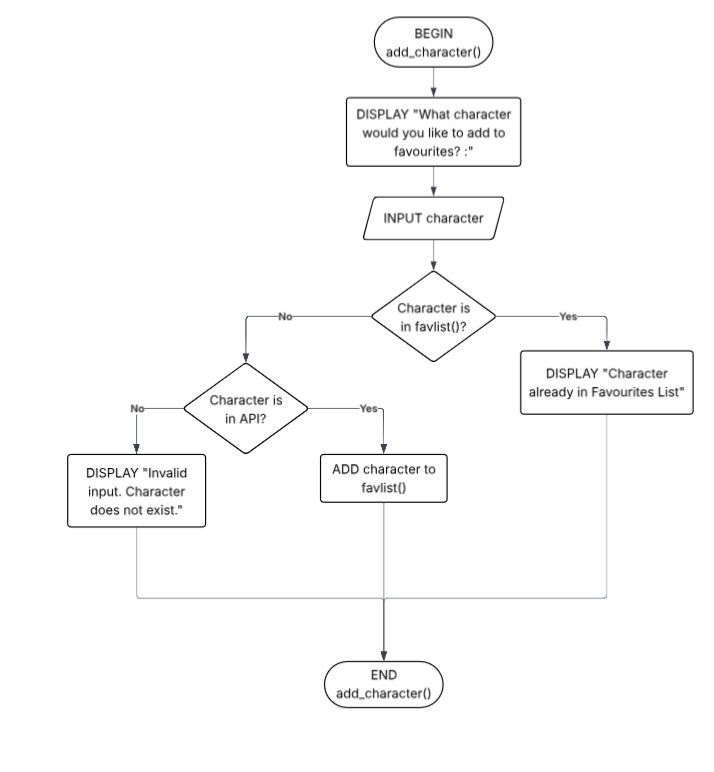
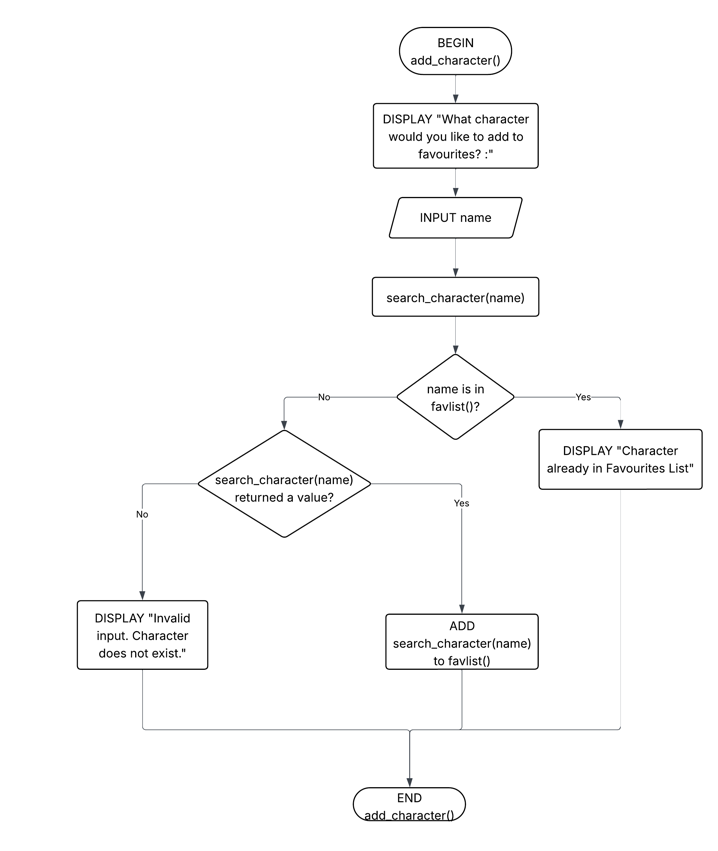
test: testing term_image to display images  + refactor: updated flowcharts
trying to find ways to display images in python terminal and i found term_image.it produces a pixelated version of the images but it bugs out when the images have a '?', which all the URLs have so I need to find a way for my code to remove it before trying to display image. i also updated all my flowcharts based on my present code and data dictionary

Changed region(s): [[0.493, 0.0, 0.986, 0.5907], [0.0924, 0.4041, 0.6471, 0.8083], [0.4622, 0.6839, 0.7703, 0.9637]]

diff --git a/functions.py b/functions.py
@@ -240,4 +240,10 @@ def record_actions(action, details=""):
     log_df.loc[len(log_df)] = new_row
 
 #<------------------------------TEST YOUR FUNCTIONS BELOW----------------------------->
+from term_image.image import from_url
 
+# Create an image instance from a file path
+image = from_url("https://vignette.wikia.nocookie.net/mlp/images/b/bc/Princess_Twilight_Sparkle_ID_S4E26.png")
+
+# Display the image in the terminal
+image.draw()

diff --git a/Documentation.md b/Documentation.md
@@ -201,8 +201,8 @@ REDO AGAIN RIP
 #### main()
 ```
 BEGIN main()
-    log = {}
-    favlist = {}
+    CREATE log_df as a dictionary
+    CREATE favlist as a dictionary
     WHILE True
         DISPLAY "[MLP Character Guide!] 1.Search character 2.Sort characters 3.View favourites list 4.View user interactions log 5.Exit"
         INPUT choice
@@ -247,9 +247,9 @@ BEGIN filter_characters()
         DISPLAY 'Filter by: 1. Female 2. Male'
         INPUT sex
         IF sex is 1 THEN
-            GET characters with sex = 'female' from API
+            DISPLAY characters with sex = 'female' from API
         ELIF sex is 2 THEN
-            GET characters with sex = 'male' from API
+            DISPLAY characters with sex = 'male' from API
         ELSE
             DISPLAY "Invalid input. Choose either option 1 or 2. Returning to main menu...'
         ENDIF
@@ -257,15 +257,15 @@ BEGIN filter_characters()
         DISPLAY 'Filter by: 1. Pegasus 2. Earth Pony 3. Unicorn 4. Other creatures'
         INPUT type
         IF type is 1 THEN
-            GET characters with 'pegasus' in 'kind' from API
+            DISPLAY characters with 'pegasus' in 'kind' from API
         ELIF type is 2 THEN
-            GET characters with 'earth pony' in 'kind' from API
+            DISPLAY characters with 'earth pony' in 'kind' from API
         ELIF type is 3 THEN
-            GET characters with 'unicorn' in 'kind' from API
+            DISPLAY characters with 'unicorn' in 'kind' from API
         ELIF type is 4 THEN
-            GET characters with 'alicorn' in 'kind' from API
+            DISPLAY characters with 'alicorn' in 'kind' from API
         ELIF type is 5 THEN
-            GET characters where 'kind' is NOT pegasus, earth pony, unicorn or alicorn from API
+            DISPLAY characters where 'kind' is NOT pegasus, earth pony, unicorn or alicorn from API
         ELSE
             DISPLAY 'Invalid input. Choose option between 1-5 (1/2/3/4/5). Returning to main menu...'
         ENDIF
@@ -274,7 +274,7 @@ BEGIN filter_characters()
     ENDIF
 END filter_characters()
 ```
-![Filter Characters Flowchart](./images/sortcharactersflowchart.png)
+![Filter Characters Flowchart](./images/filtercharactersflowchart.png)
 
 #### view_list()
 ```
@@ -339,9 +339,15 @@ END remove_character()
 ![Remove character Flowchart](./images/removecharacterflowchart.png)
 
 #### record_actions()
-BEGIN record_actions()
+```
+BEGIN record_actions(action, details)
+    SET timestamp to current time
+    CREATE new_row as a dictionary WITH timestamp, action, details
+    ADD new_row to log_df
+END record_actions(action, details)
+```
 
-![Record Actions Flowchart]
+![Record Actions Flowchart](./images/recordactionsflowchart.png)
 ---
 ### Data Dictionary
 | Variable | Data Type | Format for Display | Size in Bytes | Size for Display | Description | Example | Validation |

diff --git a/README.md b/README.md
@@ -8,7 +8,7 @@ This user interface is based on the animated series 'My Little Pony: Friendship 
 To run this program, you need the following dependencies:
 - 'requests' to make HTTP requests to the () API.
 - 'pandas' for data cleaning/filtering.
-- 'numpy' for data manipulation.
+- 'term-image' for image visualisation
 
 ## Install Dependencies
 1. Go to the top left of your VSC and click 'Terminal'
